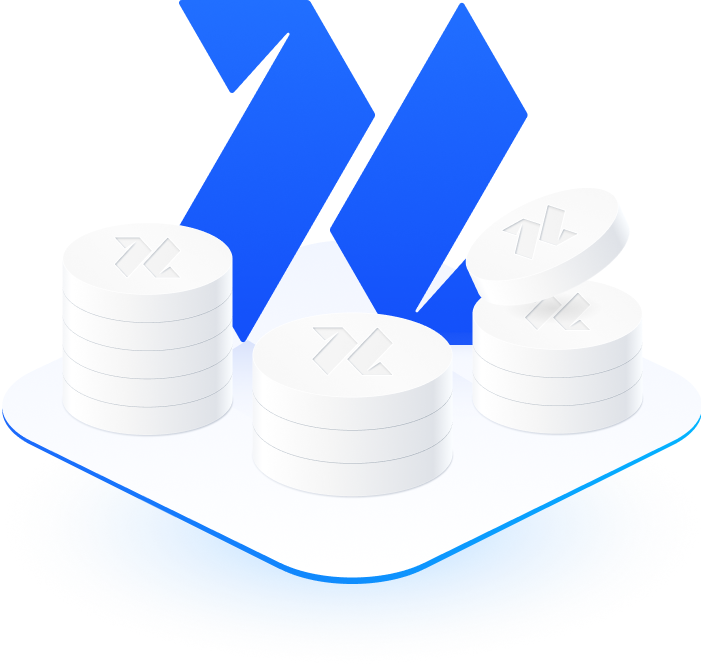
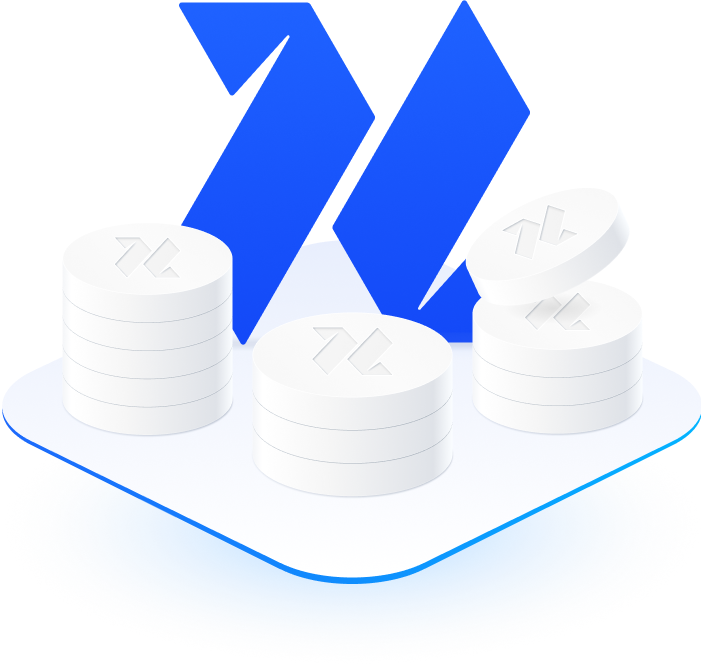
QA: Fix KLEV-218

diff --git a/src/components/intro/Withus.js b/src/components/intro/Withus.js
@@ -62,7 +62,7 @@ class Withus extends Component {
             />
             <WithusItem
               href="https://www.sooho.io/"
-              imgSrc="/static/images/exported/withus-sooho.svg"
+              imgSrc="/static/images/exported/withus-sooho.png"
             />
             <WithusItem
               href="https://birkosully.com/"
@@ -77,11 +77,11 @@ class Withus extends Component {
             />
             <WithusItem
               href="https://claimswap.org/"
-              imgSrc="/static/images/exported/withus-claimswap.svg"
+              imgSrc="/static/images/exported/withus-claimswap.png"
             />
             <WithusItem
               href="https://kokoa.finance/"
-              imgSrc="/static/images/exported/withus-kokoa.svg"
+              imgSrc="/static/images/exported/withus-kokoa.png"
             />
             <WithusItem
               href="https://klaytn.domains/"
@@ -89,7 +89,7 @@ class Withus extends Component {
             />
             <WithusItem
               href="https://kokonutswap.finance/"
-              imgSrc="/static/images/exported/withus-kokonut.svg"
+              imgSrc="/static/images/exported/withus-kokonut.png"
             />
           </div>
           <p className="Withus__category">Audit</p>
@@ -100,15 +100,15 @@ class Withus extends Component {
             />
             <WithusItem
               href="https://scvsoft.net/"
-              imgSrc="/static/images/exported/withus-scvsoft.svg"
+              imgSrc="/static/images/exported/withus-scvsoft.png"
             />
             <WithusItem
               href="https://audit.sooho.io/"
-              imgSrc="/static/images/exported/withus-sooho-audit.svg"
+              imgSrc="/static/images/exported/withus-sooho-audit.png"
             />
             <WithusItem
               href="https://www.slowmist.com/"
-              imgSrc="/static/images/exported/withus-slowmist.svg"
+              imgSrc="/static/images/exported/withus-slowmist.png"
             />
             <WithusItem
               href="https://hacken.io/"

diff --git a/src/components/intro/Intro5.scss b/src/components/intro/Intro5.scss
@@ -125,7 +125,7 @@
     content: "";
     width: 100%;
     height: 100%;
-    background-image: url(/static/images/exported/play.svg);
+    background-image: url(/static/images/exported/play.png);
     background-size: 100%;
     background-repeat: no-repeat;
     left: 50%;
